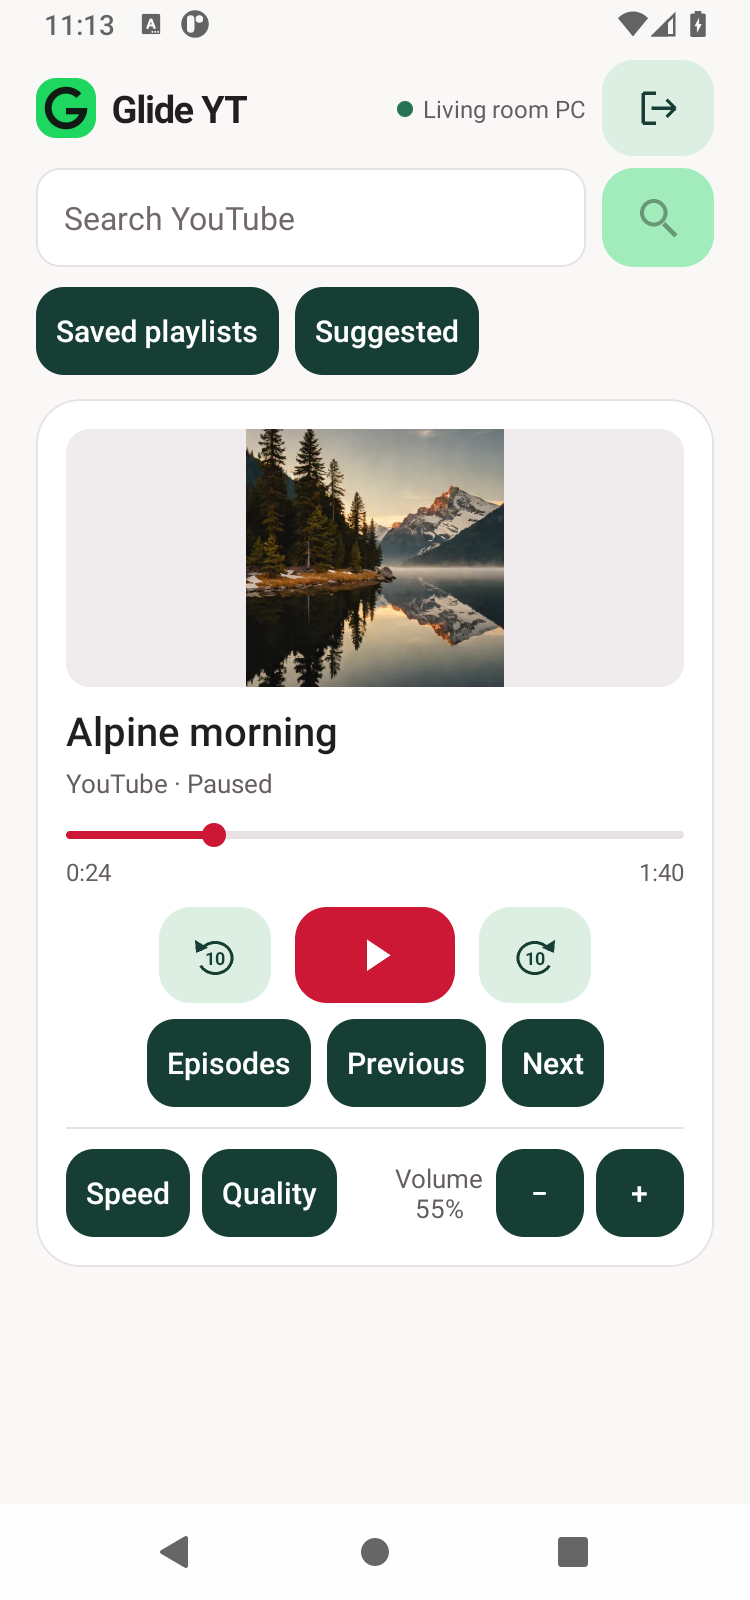
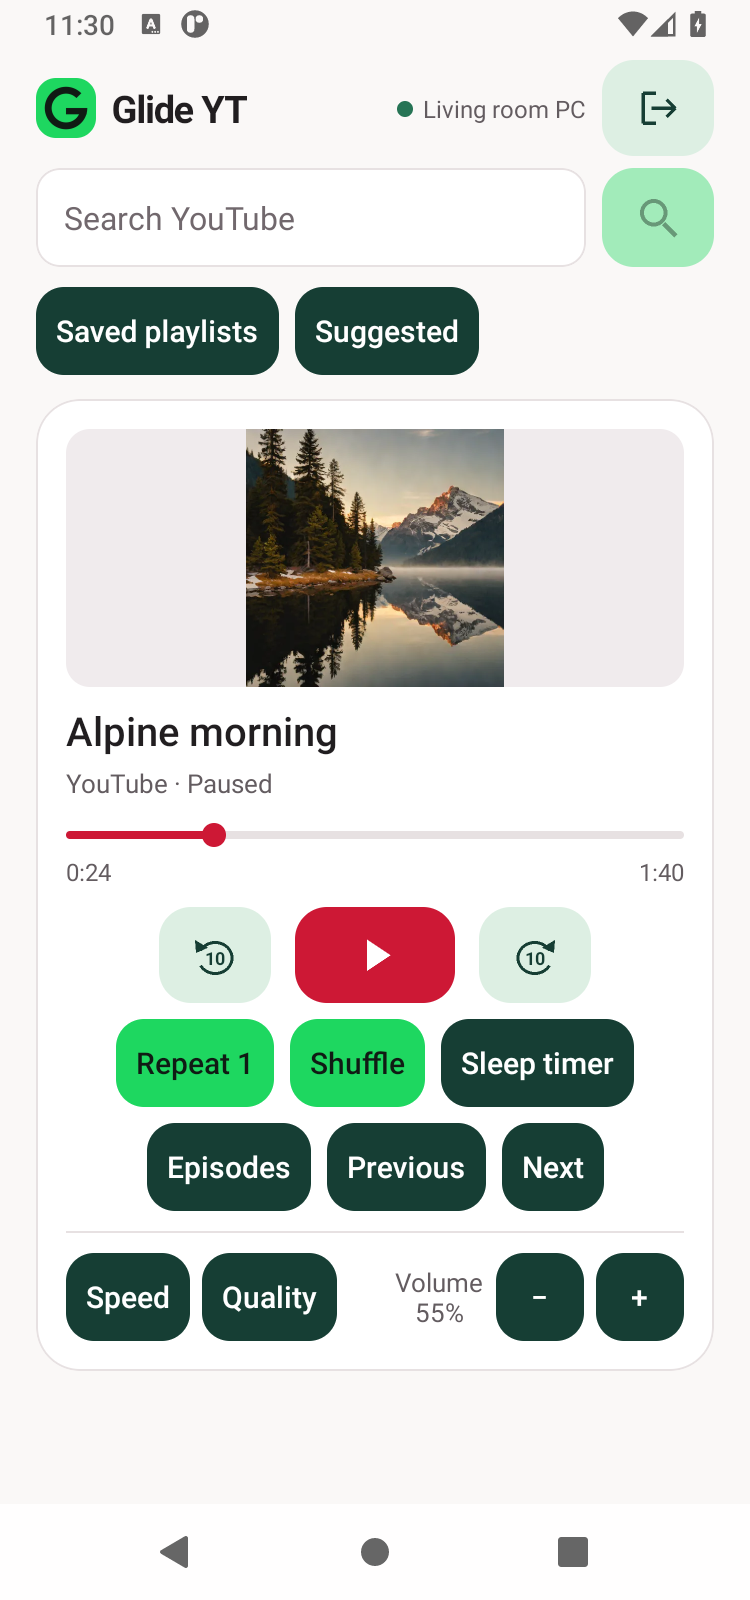
Show repeat, shuffle and sleep timer in the GlideYT tour

Changed region(s): [[0.0613, 0.625, 0.92, 0.8438], [0.1227, 0.0, 0.1533, 0.0312]]

diff --git a/website/src/glide-tour.css b/website/src/glide-tour.css
@@ -2,7 +2,7 @@
 .tour-screen { display:grid; place-items:center; padding:2.2rem 1rem; background:radial-gradient(ellipse at 28% 14%,#faf5e9,transparent 58%),linear-gradient(135deg,#ecdbce,#dfbabb); }
 .device-capture { position:relative; box-sizing:content-box; width:clamp(150px,16vw,203px); border:5px solid #252426; background:#252426; border-radius:22px; box-shadow:0 18px 30px -12px #34282b66; overflow:hidden; }
 .device-capture img { display:block; width:100%; }.tour-highlight { position:absolute; left:4%; right:4%; border:2px solid #285ae3; border-radius:10px; box-shadow:0 0 0 300px #30233524; pointer-events:none; }
-.tour-highlight.search { top:10%; height:7%; }.tour-highlight.playback { top:50.5%; height:13%; }.tour-highlight.settings { top:70.5%; height:7.8%; }
+.tour-highlight.search { top:10%; height:7%; }.tour-highlight.playback { top:50.5%; height:13%; }.tour-highlight.modes { top:63%; height:7%; }.tour-highlight.settings { top:77.5%; height:7.3%; }
 .tour-notes { align-self:center; padding:clamp(1.5rem,4vw,4rem); }.tour-choices { display:flex; flex-wrap:wrap; gap:.4rem; }.tour-choices button { display:flex; align-items:center; gap:.4rem; padding:.56rem .72rem; border:1px solid #d4d5dc; border-radius:99px; cursor:pointer; font-size:.87rem; }.tour-choices button[aria-pressed=true] { background:#17223b; color:white; border-color:#17223b; }
 .tour-description h3 { font-size:clamp(1.9rem,3vw,3.2rem); line-height:1.08; font-weight:560; letter-spacing:-.05em; margin:1.75rem 0 .8rem; }.tour-description p { color:var(--color-body); font-size:1.05rem; line-height:1.65; }
 .demo-scenes { display:flex; flex-wrap:wrap; justify-content:center; align-items:center; gap:.55rem; margin:1.4rem auto 0; }.demo-scenes button { cursor:pointer; display:flex; align-items:center; gap:.5rem; background:white; border:1px solid #d2d3d7; border-radius:30px; padding:4px 10px 4px 4px; font-size:.86rem; font-weight:550; }.demo-scenes button img { width:32px; height:25px; border-radius:15px; object-fit:cover; }.demo-scenes button[aria-pressed=true] { border-color:#345de0; color:#2548a5; }

diff --git a/website/src/glide.tsx b/website/src/glide.tsx
@@ -44,6 +44,7 @@ function Glide() {
     <section id="support" className="tinted-section"><div className="landing-section help-layout"><div><div className="section-head left"><h2>Questions, <Em>answered.</Em></h2><p>Help with installation, pairing and playback.</p></div>
       <div className="help-links"><a href="/troubleshooting/windows/"><Laptop/> Windows installation help</a><a href={glideRepository+'/issues'}><ScanLine/> Contact GlideYT support</a><a href={glideRepository}><GitHubIcon className="size-4"/> Source on GitHub</a></div></div>
       <div className="faqs">
+        <details><summary>Where are Repeat and Shuffle?</summary><p>Repeat 1 appears for tracks the laptop can loop. Open a supported playlist to use Shuffle. If the browser does not expose these controls through Windows, use Connect background controls in GlideYT settings. For a timed pause, open Sleep timer on your phone.</p></details>
         <details><summary>Why does my phone appear several times?</summary><p>Older versions saved each pairing as “My Android.” Update GlideYT on Windows and Android, then open the phone app once. Windows shows your phone by model and reuses that entry when you pair again. You can remove obsolete entries by date under <strong>Earlier pairings</strong>.</p></details>
         <details><summary>My phone can’t reach the laptop</summary><p>Check that both devices use the same trusted Wi-Fi. Guest networks may isolate devices. In Windows settings inside GlideYT, choose <strong>Allow Wi-Fi access</strong> for the private network, then show a fresh pairing code.</p></details>
       <details><summary>YouTube opens but playback won’t start</summary><p>Click Play on the laptop once so the browser can expose its media controls. For playlist, speed or quality controls while YouTube is in the background, follow the <a href={glideRepository + '#background-controls'}>background controls guide</a>.</p></details>

diff --git a/website/src/GlideTour.tsx b/website/src/GlideTour.tsx
@@ -1,11 +1,12 @@
 import { useState } from 'react'
-import { MonitorPlay, Search, SlidersHorizontal } from 'lucide-react'
+import { MonitorPlay, Repeat1, Search, SlidersHorizontal } from 'lucide-react'
 import { Em } from './components/ui'
 import './glide-tour.css'
 
 const views = [
   { name:'Search', icon:Search, title:'Choose the next video on your phone.', body:'Search for a title while your video plays. Tap Now playing at the bottom of the results, tap the same video, or use Android Back to return to the player at its current position.', region:'search' },
   { name:'Playback', icon:MonitorPlay, title:'See what is playing across the room.', body:'Drag the timeline to preview a timestamp. Lift your finger to seek on the laptop, or use the ten-second buttons to skip forward or back.', region:'playback' },
+  { name:'Listening modes', icon:Repeat1, title:'Listen on repeat or set a bedtime.', body:'Repeat 1 loops the current track. Shuffle changes the order of a supported playlist. Set a sleep timer for 15, 30 or 60 minutes to pause the laptop even with your phone screen off.', region:'modes' },
   { name:'Player settings', icon:SlidersHorizontal, title:'Adjust the player from your seat.', body:'Speed, quality and volume sit below the playback controls. The disconnect button is above Search. For controls in a hidden browser tab, choose Connect background controls on Windows and approve the browser prompt.', region:'settings' },
 ]
 
